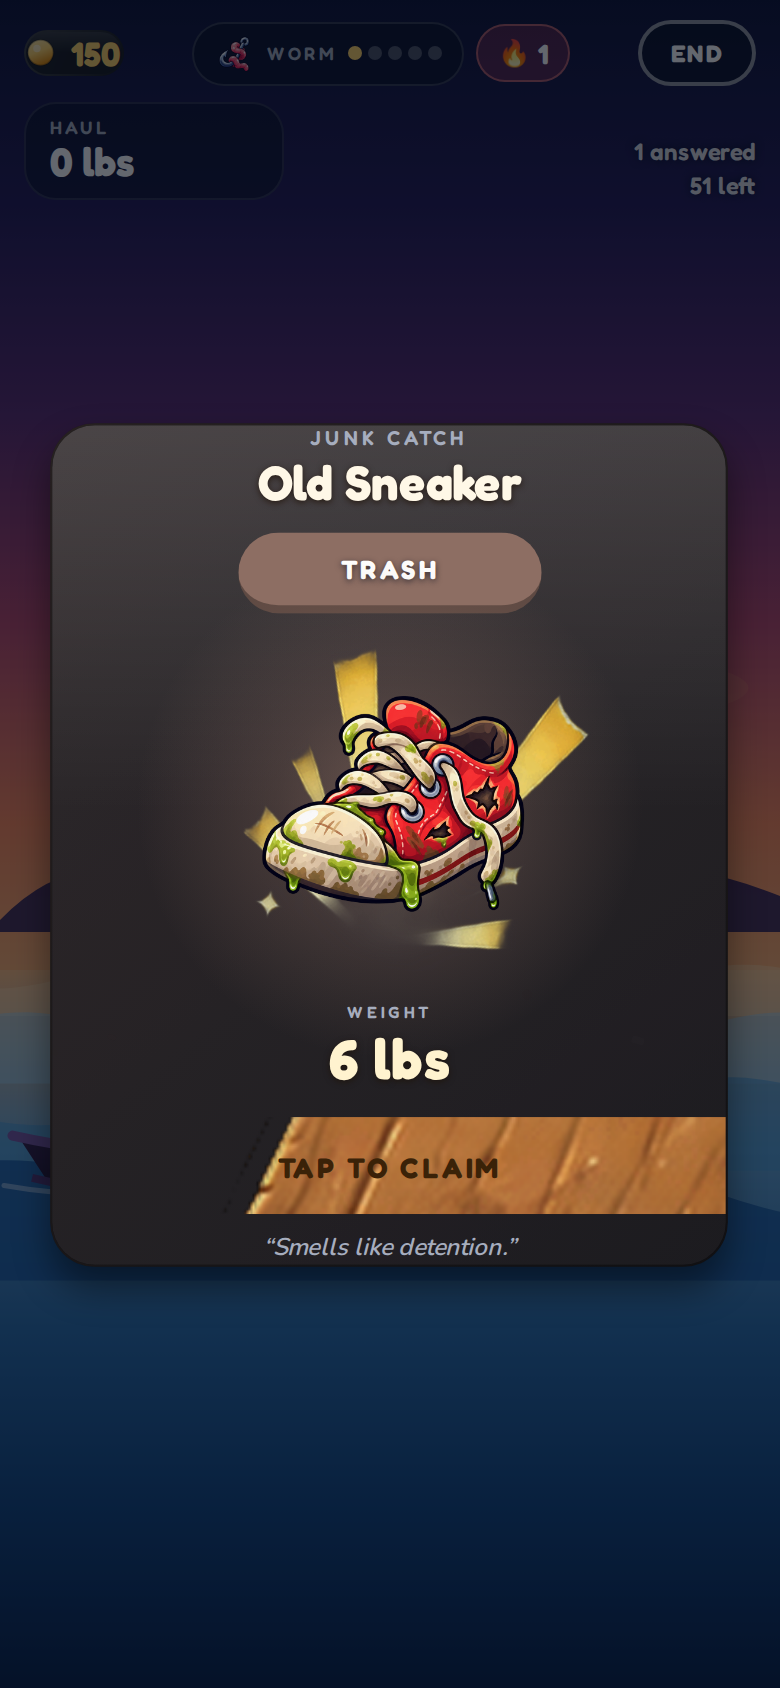
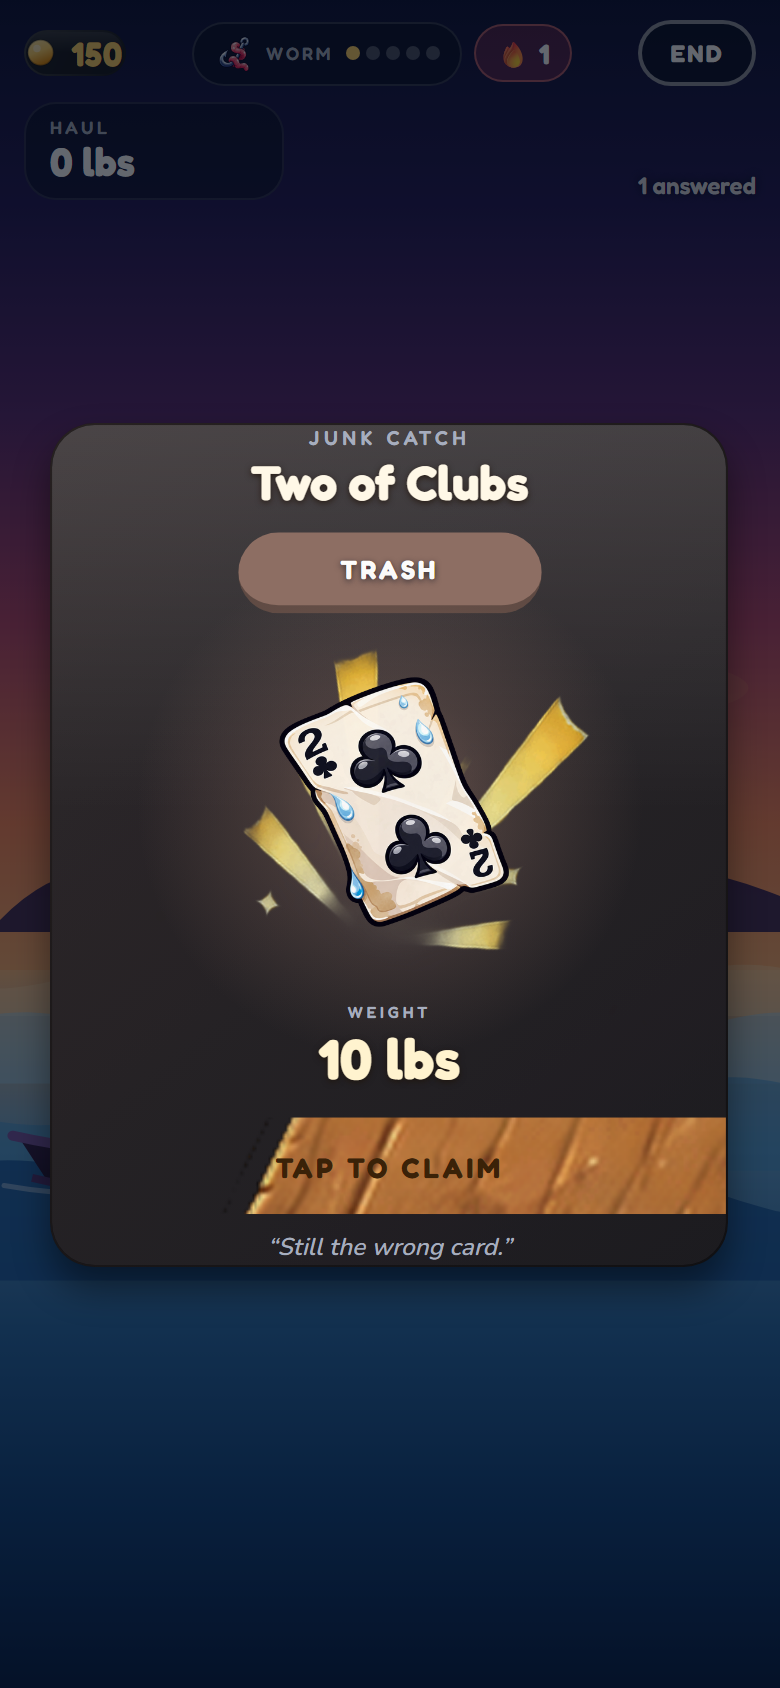
docs(art): new critter art style references (3 Codex-generated critters) and the proven prompt

diff --git a/docs/design/critter-card.md b/docs/design/critter-card.md
@@ -48,3 +48,37 @@ The window is square and the art is drawn at 88% of it, so new art must:
 
 Files go in `apps/mobile/assets/critters/<assetId>.png`, where `assetId` is the
 `assetId` of the critter in `packages/core/src/content/critters.ts`.
+
+## The proven prompt (Codex image generation, Nov 16, 2026)
+
+A Codex agent with the `image_gen.imagegen` tool produced the three references in
+`docs/design/art-test/` (Nibbles the Notecard, Recall Raccoon, Professor
+Hoot-n-Holler) in one pass each, with a transparent background. They are the
+bar for the new roster. These are **style references only**: the live album still
+uses the old art until a whole pack is redone together, so one pack never mixes
+two styles.
+
+Shared style paragraph (put it first, then add one line describing the critter):
+
+> A flat-shaded character illustration for a collectible card in a study app for
+> teens and adults. Square 1024x1024, ONE character centered, filling about 80% of
+> the canvas with even margins, nothing cropped. Transparent background. Confident
+> clean outline about 4px, drawn in a darker shade of each area's own color (NOT
+> black). Flat color fills with exactly one soft shadow tone and one highlight
+> tone, no gradients, no textures. Only 3-4 hues per character. Simple geometric
+> shapes, strong silhouette that still reads at 150px wide. Expression is knowing,
+> curious, slightly smug: half-lidded or side-glancing eyes, small mouth. NO huge
+> sparkly baby eyes, NO blush circles, NOT kawaii, NOT chibi. Stubby limbs, carries
+> a study object. No text, no frame, no ground shadow, no background scenery.
+
+Critter lines used: "a folded index card with faint ruled lines and a red margin
+line, a small bite taken out of one corner, holding a tiny pen like a snack,
+side-glance smirk"; "a raccoon with a pencil tucked behind one ear, holding a
+flashcard against its chest, one eyebrow raised, confident smirk"; "an owl in a
+small mortarboard cap and round glasses, holding a wooden pointer stick, mildly
+exasperated but wise".
+
+Workflow notes: generate one image per call; a Codex child agent cannot always
+write the file into the repo, so the images are read from
+`~/.codex/generated_images/<session>/` and copied into place. Review every image
+against the five rules above before it is used.
